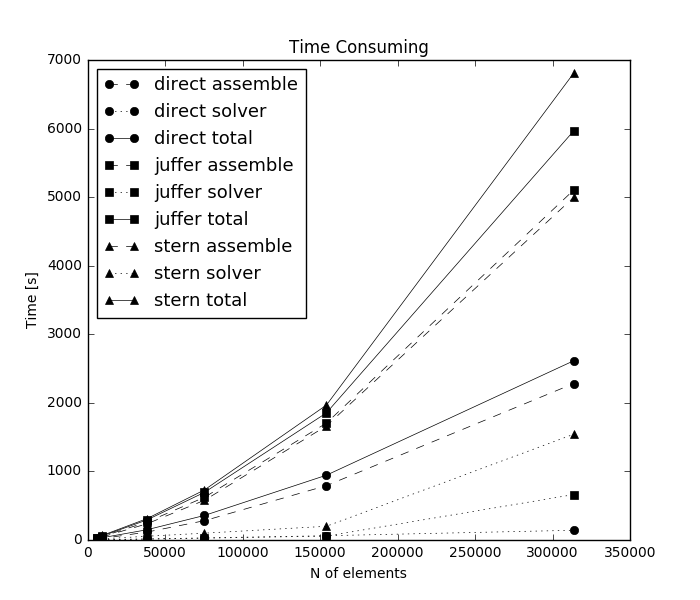
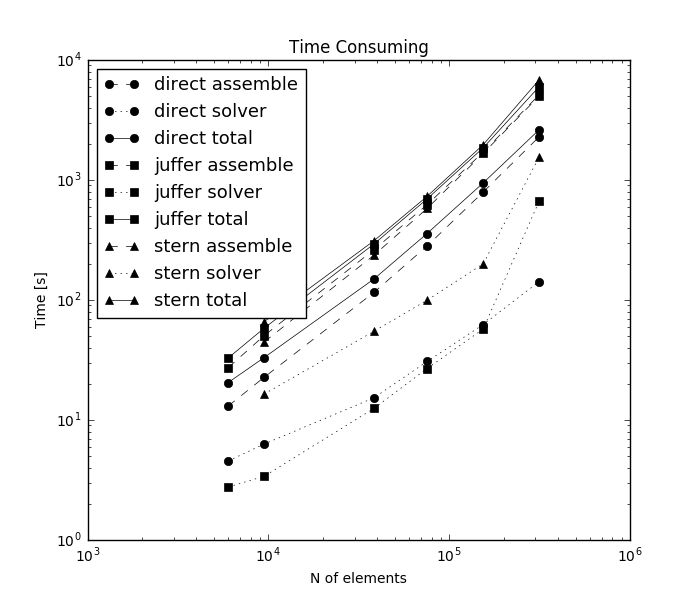
pygbe function added

diff --git a/main.py b/main.py
@@ -5,20 +5,20 @@ import PBL_stern
 import PBL
 import gc
 
-mol_name = 'peptide'
+mol_name = '5pti'
 
-dens = np.array([ .8, 1., 2., 2.8, 4., 5.7 ])
+# dens = np.array([ .8, 1., 2., 2.8, 4., 5.7 ])
 
-for dd in dens:
-	PBL.solvation_energy(mol_name, dd, info=True)
-	PBL.solvation_energy(mol_name, dd, formulation='juffer', info=True)
-	PBL_stern.solvation_energy(mol_name, dd, info=True)
-	gc.collect()
+# for dd in dens:
+# 	PBL.solvation_energy(mol_name, dd, info=True)
+# 	PBL.solvation_energy(mol_name, dd, formulation='juffer', info=True)
+# 	PBL_stern.solvation_energy(mol_name, dd, info=True)
+# 	gc.collect()
 
-r_st = np.array([ .1, .2, .4, .6, .8, 1.2, 1.5, 2., 3., 4. ])
-for rr in r_st:
-	PBL_stern.solvation_energy(mol_name, 5.7, stern_radius=rr, info=True)
-	gc.collect()
+# r_st = np.array([ .1, .2, .4, .6, .8, 1.2, 1.5, 2., 3., 4. ])
+# for rr in r_st:
+# 	PBL_stern.solvation_energy(mol_name, 5.7, stern_radius=rr, info=True)
+# 	gc.collect()
 
 
 directory = 'Molecule/{}/'.format(mol_name)
@@ -96,17 +96,17 @@ plt.savefig(directory + 'Energy.png')
 
 
 time_general = plt.figure().add_subplot(111)
-time_general.plot(n_boundary_elements, times_d[:,0], 'r--', marker='o', label='direct assemble', color='k')
-time_general.plot(n_boundary_elements, times_d[:,1], 'r:', marker='o', label='direct solver', color='k')
-time_general.plot(n_boundary_elements, times_d[:,2], marker='o', label='direct total', color='k')
+time_general.loglog(n_boundary_elements, times_d[:,0], 'r--', marker='o', label='direct assemble', color='k')
+time_general.loglog(n_boundary_elements, times_d[:,1], 'r:', marker='o', label='direct solver', color='k')
+time_general.loglog(n_boundary_elements, times_d[:,2], marker='o', label='direct total', color='k')
 
-time_general.plot(n_boundary_elements, times_j[:,0], 'r--', marker='s', label='juffer assemble', color='k')
-time_general.plot(n_boundary_elements, times_j[:,1], 'r:', marker='s', label='juffer solver', color='k')
-time_general.plot(n_boundary_elements, times_j[:,2], marker='s', label='juffer total', color='k')
+time_general.loglog(n_boundary_elements, times_j[:,0], 'r--', marker='s', label='juffer assemble', color='k')
+time_general.loglog(n_boundary_elements, times_j[:,1], 'r:', marker='s', label='juffer solver', color='k')
+time_general.loglog(n_boundary_elements, times_j[:,2], marker='s', label='juffer total', color='k')
 
-time_general.plot(n_stern_1, times_s1[:,0], 'r--', marker='^', label='stern assemble', color='k')
-time_general.plot(n_stern_1, times_s1[:,1], 'r:', marker='^', label='stern solver', color='k')
-time_general.plot(n_stern_1, times_s1[:,2], marker='^', label='stern total', color='k')
+time_general.loglog(n_stern_1, times_s1[:,0], 'r--', marker='^', label='stern assemble', color='k')
+time_general.loglog(n_stern_1, times_s1[:,1], 'r:', marker='^', label='stern solver', color='k')
+time_general.loglog(n_stern_1, times_s1[:,2], marker='^', label='stern total', color='k')
 
 time_general.set_title('Time Consuming')
 time_general.set_xlabel('N of elements')

diff --git a/general_functions.py b/general_functions.py
@@ -101,3 +101,27 @@ def charges_potential(x, x_q, dirichl_space, neumann_space):
 
 	return phi_q.real
 
+def run_pygbe(mol_name, mesh_density):
+	mol_directory = 'Molecule/' + mol_name
+	mesh_directory = mol_directory + '/mesh'
+
+	pqr_file = mol_directory + '/' + mol_name + '.pqr'
+
+	mesh_file_in = '{}/{}_d{:04.1f}'.format(mesh_directory, mol_name, mesh_density)
+	mesh_file_ex = '{}/{}_d{:04.1f}_strn-pr{:04.1f}'.format(mesh_directory, mol_name, mesh_density, stern_radius)
+
+	config_file = open('file.config', 'r').read()
+	param_file  = open('file.param', 'r').read()
+
+	config_file.replace('stern_file', mesh_file_ex)
+	config_file.replace('mmesh_file', mesh_file_in)
+	config_file.replace('pqr_file', pqr_file)
+
+	new_config = open(mol_directory + mol_name + 'config', 'w').write(config_file).close()
+	new_config = open(mol_directory + mol_name + 'param' , 'w').write(param_file).close()
+
+	os.mkdir('temp')
+	os.system('mv ' + mesh_directory + '/*.msh temp'  )
+	os.system('pygbe' + mol_directory)
+	os.system('mv temp/*.msh ' + mesh_directory )
+	os.system('rm -r temp')

diff --git a/PBL_stern.py b/PBL_stern.py
@@ -100,7 +100,7 @@ def stern_formulation(dirichl_space_in, neumann_space_in, dirichl_space_ex, neum
     def green_func(x, n, domain_index, result):
         result[:] = np.sum(q/np.linalg.norm( x - x_q, axis=1 ))/(4.*np.pi*ep_in)
 
-    print "Proyecting charges over surface..."
+    print "Projecting charges over surface..."
     charged_grid_fun  = bempp.api.GridFunction(dirichl_space_in, fun=green_func)
 
     rhs = np.concatenate([charged_grid_fun.coefficients, 
